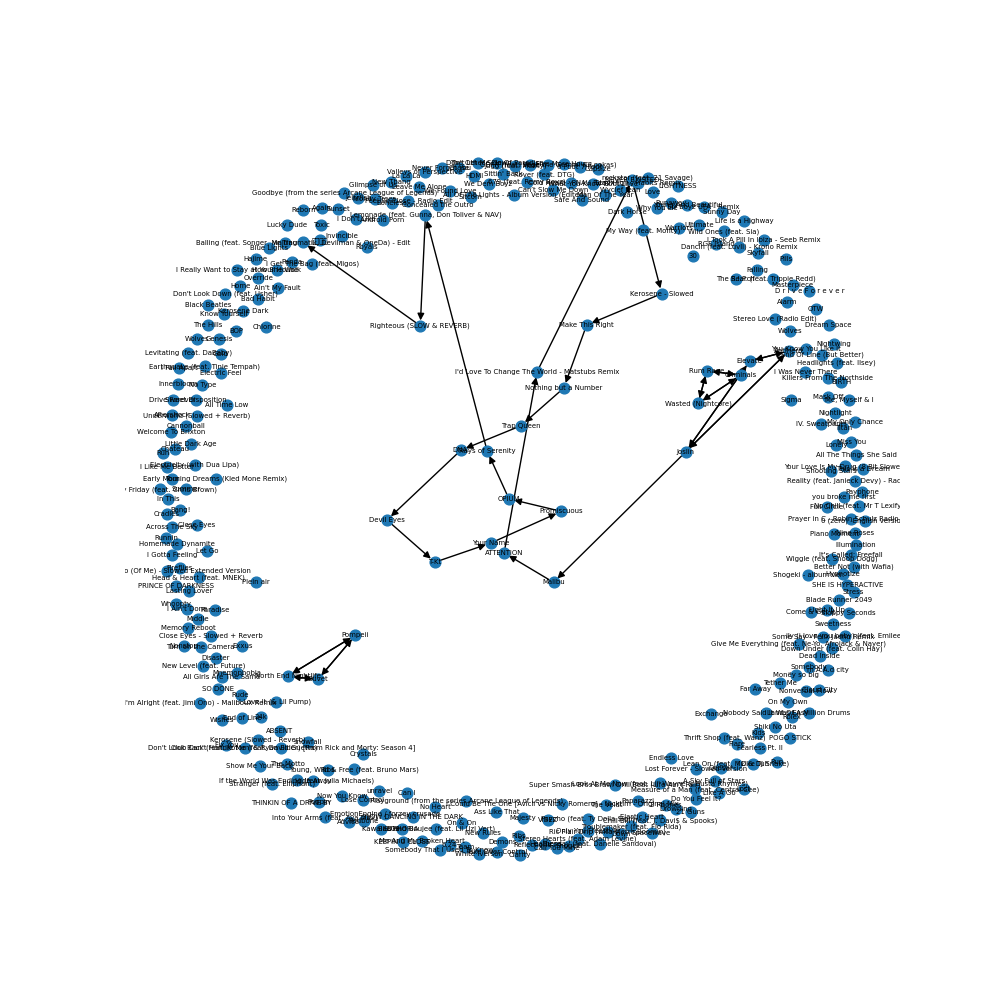
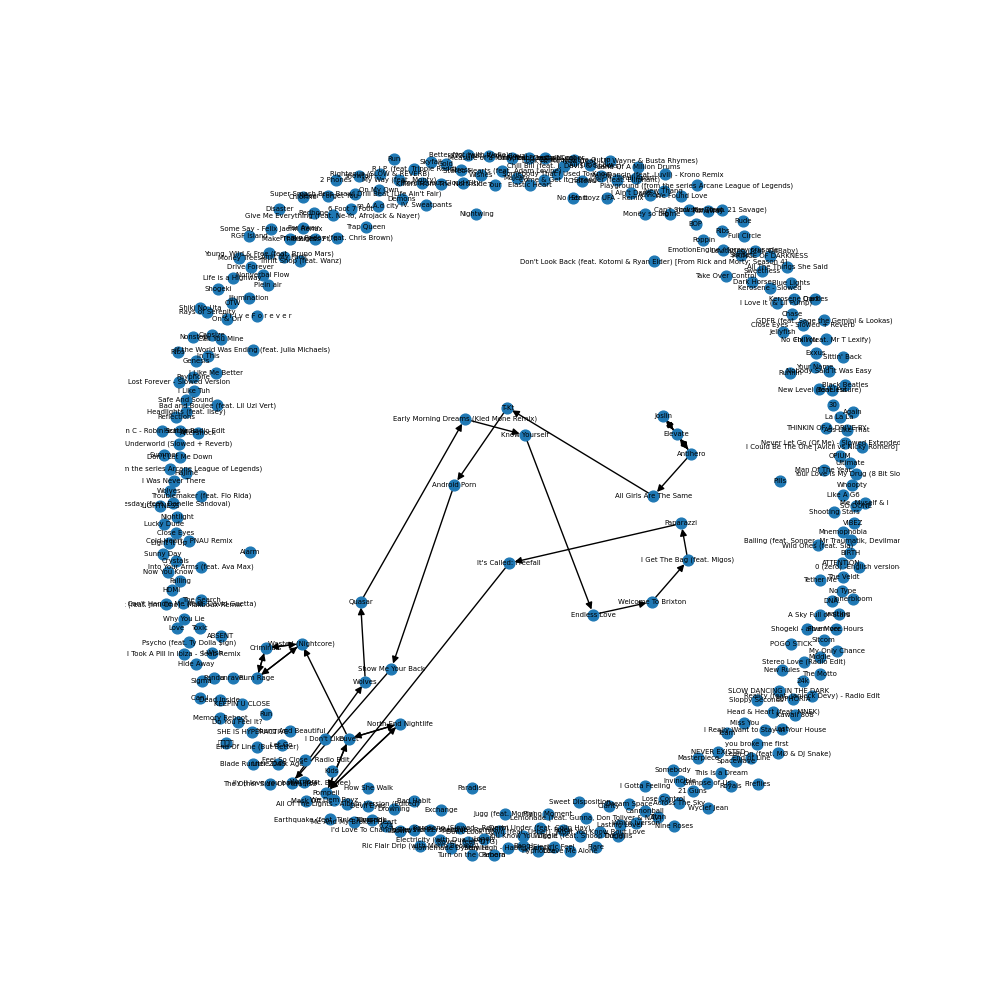
Added the blacklist, skipped needs testing

Changed region(s): [[0.124, 0.124, 0.899, 0.868], [0.372, 0.31, 0.465, 0.341]]

diff --git a/mood-shifter-model/network.py b/mood-shifter-model/network.py
@@ -92,12 +92,12 @@ def mood2mood(graph, fromMood, toMood, duration):
 
     numberOfSongs = (int(duration) // averageSongLength) - 2
     generatedQueue = nodeCrawl(G, startSong, numberOfSongs, toNodes)
-    generatedQueue += toNodes
     addNewEdgeBetween(G, generatedQueue[-1]["songID"], toNodes[0]["songID"])
     print("from:", generatedQueue[-1]["songID"], "to:", toNodes[0]["songID"])
+    generatedQueue += toNodes
     saveGraphImage(G)
-    print(generatedQueue)
-    print(len(generatedQueue))
+    # print(generatedQueue)
+    # print(len(generatedQueue))
 
     return generatedQueue
 
@@ -160,10 +160,20 @@ def selectNewRandom(G, queue, currentNode, toNodes):
 
     # Create a blacklist so it doesn't pull any songs from there, the blacklist should contain:
     # the current queue, the toNodes array, as well as the nodes from the currentNodes skipped list
+    blacklist = []
 
     allNodes = list(G.nodes)
     queueIDs = [x["songID"] for x in queue]
-    nonVisited = list(set(allNodes).difference(queueIDs))
+    toIDs = [x["songID"] for x in toNodes]
+
+    blacklist += queueIDs
+    blacklist += toIDs
+    blacklist += currentNode["skipped"] # could potentially only set these from a percent chance? 
+
+    print(blacklist, end='\n')
+    print(len(blacklist), end='\n')
+
+    nonVisited = list(set(allNodes).difference(blacklist))
     # print("all non-visited: ", nonVisited)
 
     randomNode = random.choice(nonVisited)
